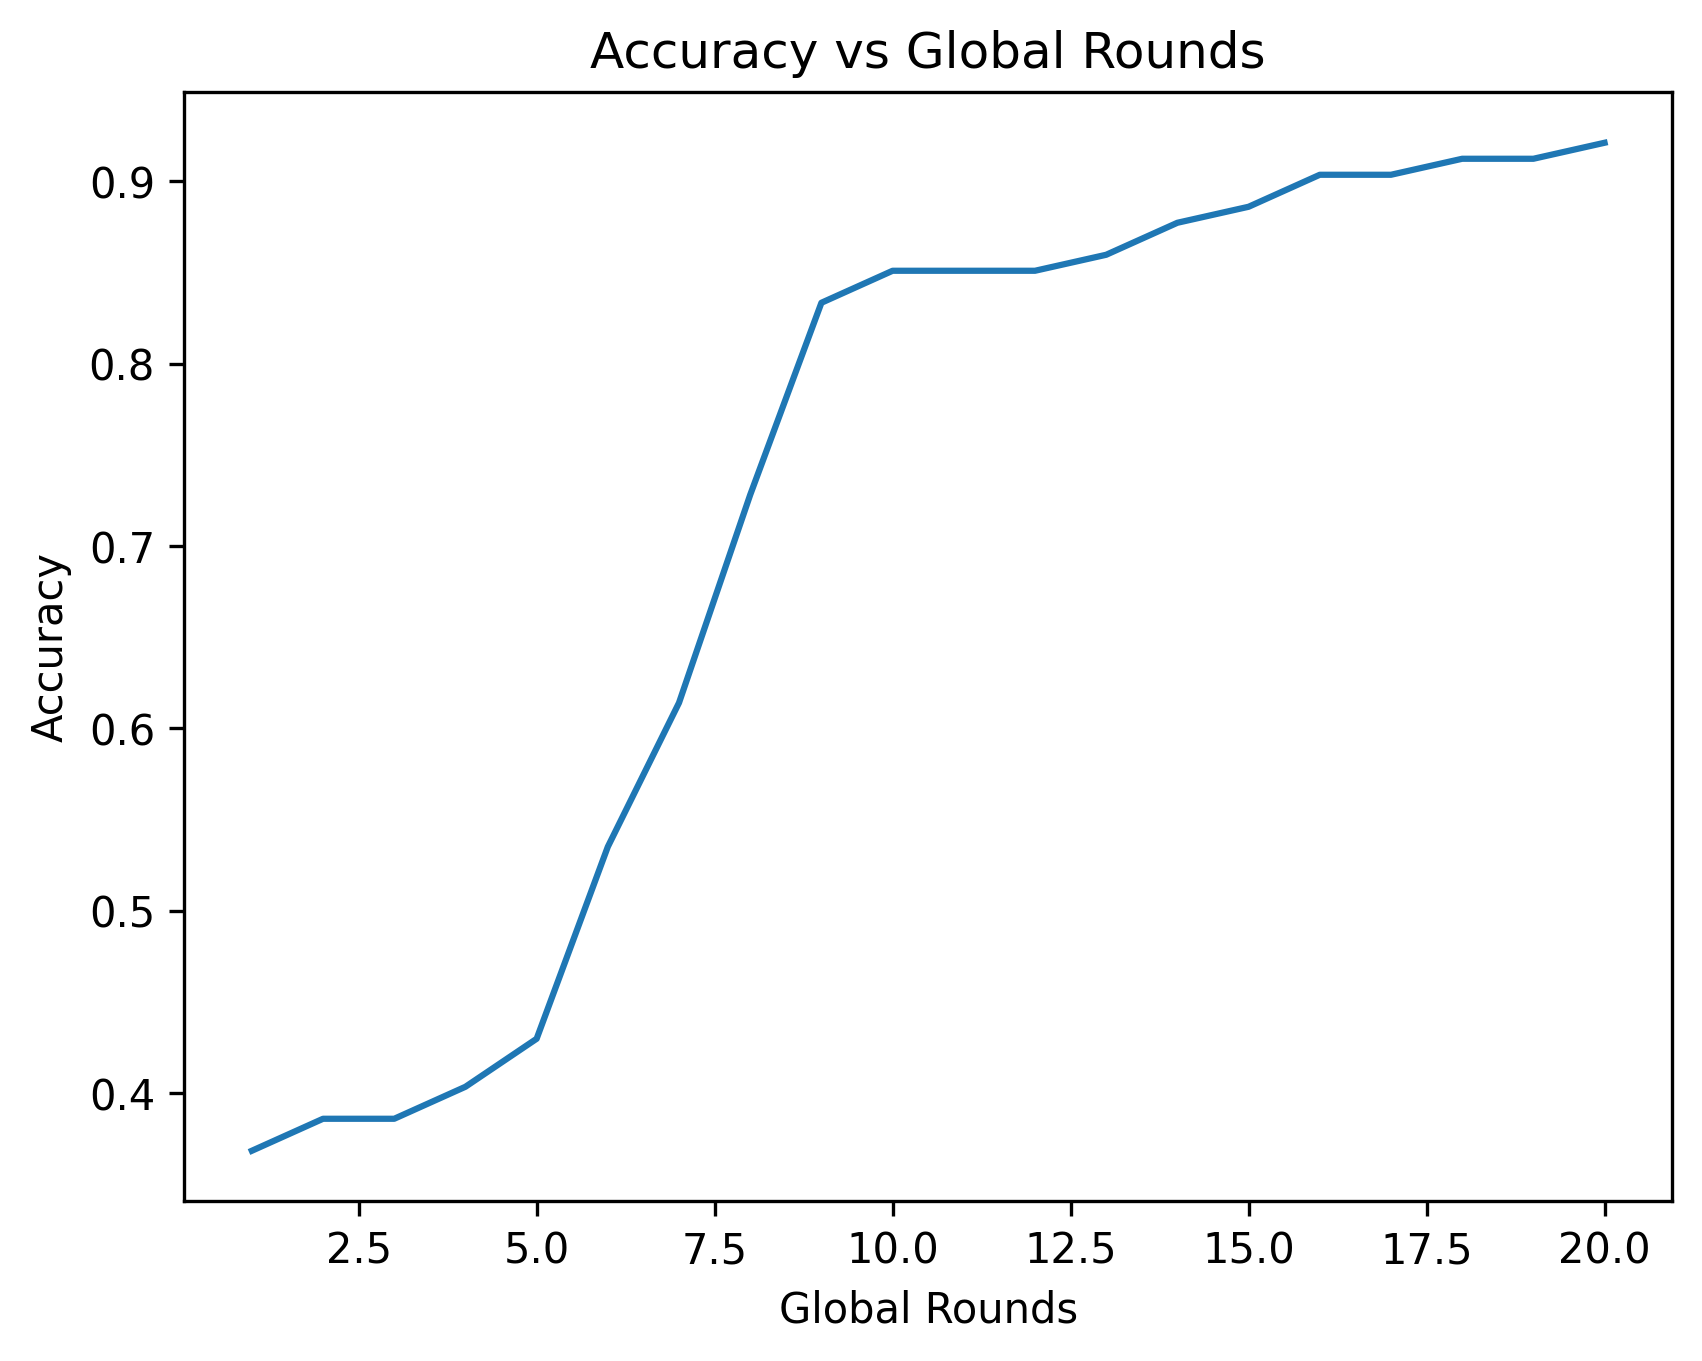
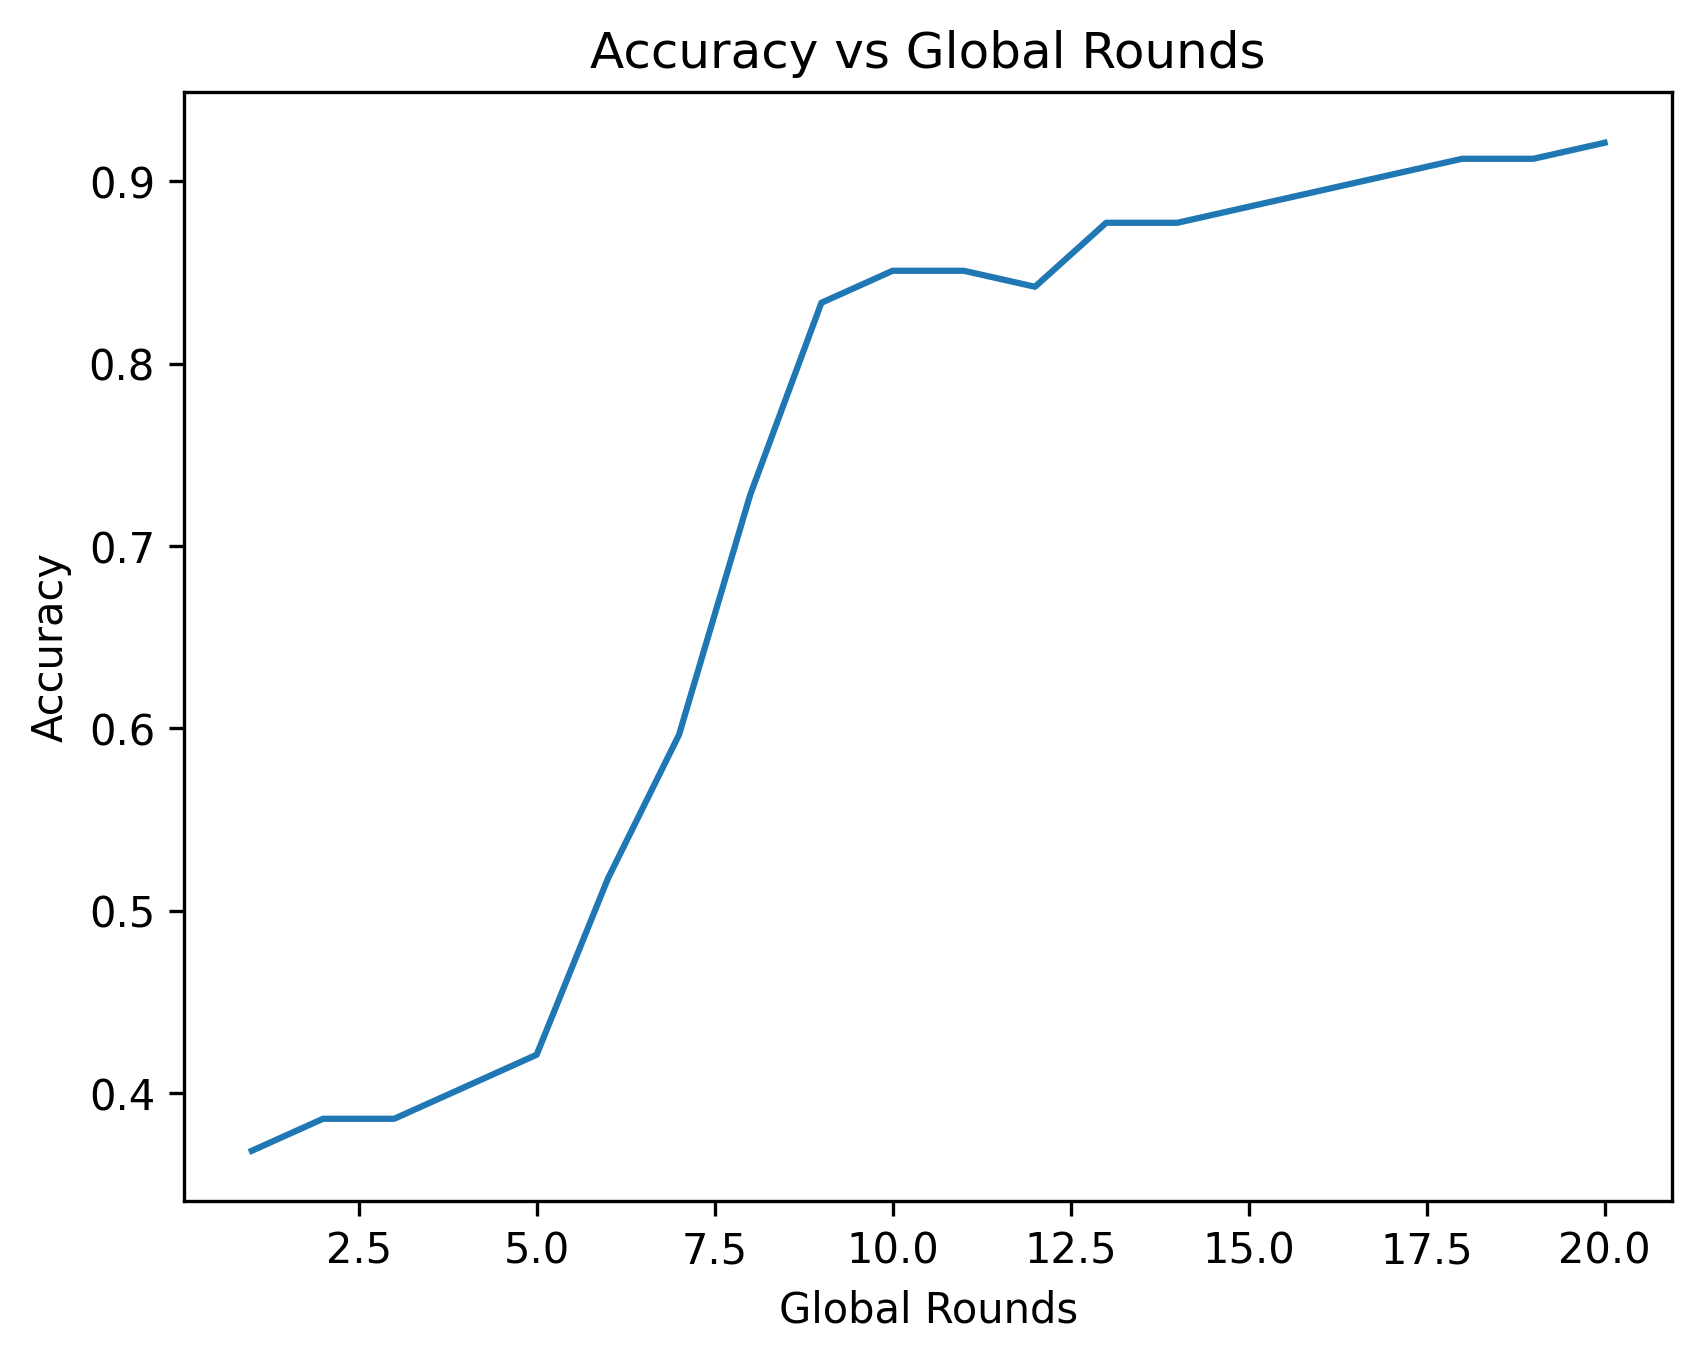
second commit

diff --git a/dp_federated.py b/dp_federated.py
@@ -54,34 +54,67 @@ def train_dp_federated() -> Dict[str, object]:
     global_model = DiseasePredictionModel()
     criterion = nn.BCEWithLogitsLoss()
 
-    # ✅ Initialize tracking lists
+    # Tracking lists
     rounds: List[int] = []
     accuracies: List[float] = []
     losses: List[float] = []
     epsilons: List[float] = []
 
-    for _ in range(GLOBAL_ROUNDS):
-        client_state_dicts: List[Dict[str, torch.Tensor]] = []
-        client_data_sizes: List[int] = []
-        round_epsilons: List[float] = []
+    # -------------------------------------------------
+    # ✅ Initialize clients ONCE (persistent objects)
+    # -------------------------------------------------
+    client_models = []
+    client_optimizers = []
+    client_privacy_engines = []
+    client_loaders = []
+    client_data_sizes = []
 
-        for client_subset in client_subsets:
-            local_model = DiseasePredictionModel()
-            local_model.load_state_dict(copy.deepcopy(global_model.state_dict()))
+    for client_subset in client_subsets:
+        local_model = DiseasePredictionModel()
+        local_model.load_state_dict(copy.deepcopy(global_model.state_dict()))
 
-            optimizer = optim.SGD(local_model.parameters(), lr=LEARNING_RATE)
-            train_loader = get_dataloader(client_subset)
+        optimizer = optim.SGD(local_model.parameters(), lr=LEARNING_RATE)
+        train_loader = get_dataloader(client_subset)
 
-            privacy_engine = PrivacyEngine(accountant="rdp")
+        privacy_engine = PrivacyEngine(accountant="rdp")
 
-            local_model, optimizer, train_loader = privacy_engine.make_private(
-                module=local_model,
-                optimizer=optimizer,
-                data_loader=train_loader,
-                noise_multiplier=NOISE_MULTIPLIER,
-                max_grad_norm=CLIP_NORM,
+        local_model, optimizer, train_loader = privacy_engine.make_private(
+            module=local_model,
+            optimizer=optimizer,
+            data_loader=train_loader,
+            noise_multiplier=NOISE_MULTIPLIER,
+            max_grad_norm=CLIP_NORM,
+        )
+
+        client_models.append(local_model)
+        client_optimizers.append(optimizer)
+        client_privacy_engines.append(privacy_engine)
+        client_loaders.append(train_loader)
+        client_data_sizes.append(len(client_subset))
+
+    # -------------------------------------------------
+    # ✅ Global training rounds
+    # -------------------------------------------------
+    for round_idx in range(GLOBAL_ROUNDS):
+        client_state_dicts = []
+        round_epsilons = []
+
+        for i in range(len(client_models)):
+            local_model = client_models[i]
+            optimizer = client_optimizers[i]
+            train_loader = client_loaders[i]
+            privacy_engine = client_privacy_engines[i]
+
+            # 🔄 Sync global model → client
+            local_model.load_state_dict(
+                {
+                    f"_module.{k}": v
+                    for k, v in global_model.state_dict().items()
+                },
+                strict=False,
             )
 
+            # Local training
             for _ in range(LOCAL_EPOCHS):
                 local_model.train()
                 for inputs, targets in train_loader:
@@ -95,8 +128,8 @@ def train_dp_federated() -> Dict[str, object]:
             round_epsilons.append(epsilon)
 
             client_state_dicts.append(copy.deepcopy(local_model.state_dict()))
-            client_data_sizes.append(len(client_subset))
 
+        # Federated averaging
         aggregated_state = fedavg(client_state_dicts, client_data_sizes)
 
         clean_state = {
@@ -106,14 +139,12 @@ def train_dp_federated() -> Dict[str, object]:
 
         global_model.load_state_dict(clean_state)
 
-        # ✅ Evaluate after each round
+        # Evaluate global model
         metrics = _evaluate(global_model, test_loader)
 
-        round_number = len(rounds) + 1
-        rounds.append(round_number)
+        rounds.append(round_idx + 1)
         accuracies.append(metrics["accuracy"])
         losses.append(metrics["loss"])
-
         epsilons.append(sum(round_epsilons) / len(round_epsilons))
 
     return {
